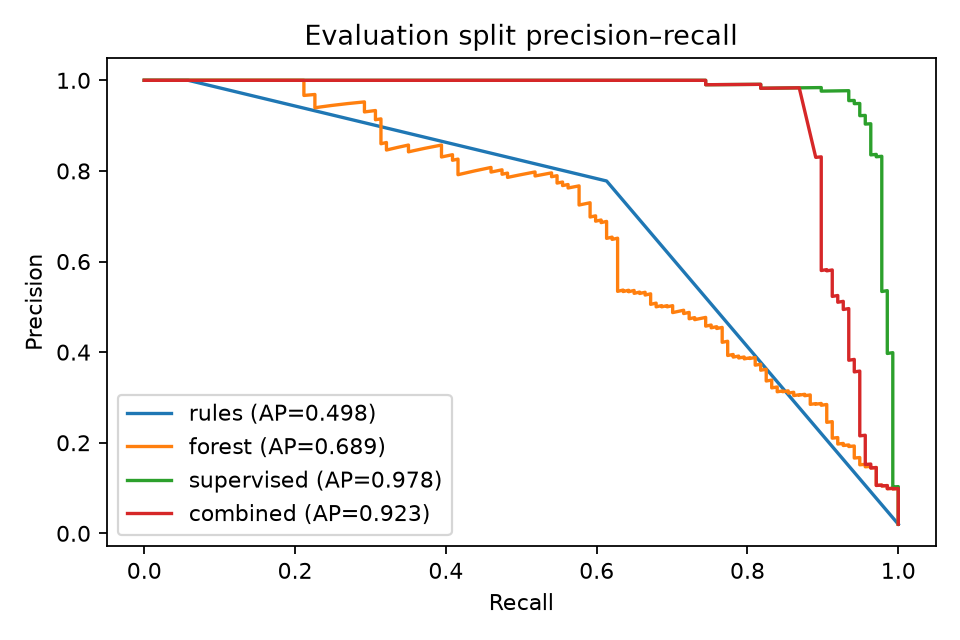
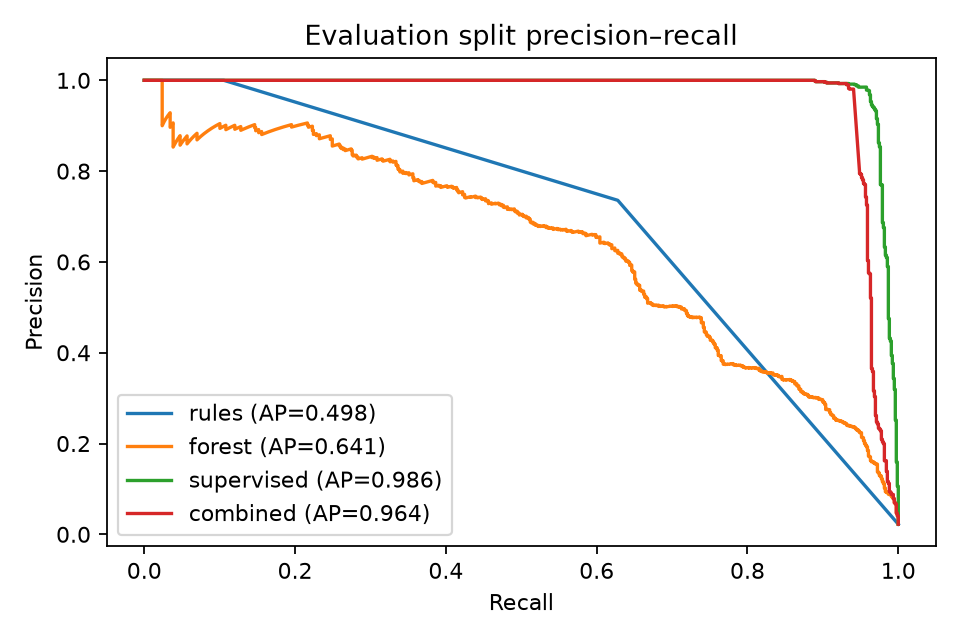
feat(data): realistic one-off merchant names and a larger default dataset

diff --git a/data/synth.py b/data/synth.py
@@ -53,6 +53,40 @@ MERCHANTS = (
     ("Phone Plan", "subscription"),
     ("Bank Transfer", "transfer"),
 )
+ONE_OFF_PREFIXES = (
+    "Birch",
+    "Cedar",
+    "Willow",
+    "Maple",
+    "Elm",
+    "Juniper",
+    "Pine",
+    "Hawthorn",
+    "Meadow",
+    "Brook",
+    "Summit",
+    "Valley",
+    "Harbor",
+    "Ridge",
+    "Stone",
+    "Sunrise",
+)
+ONE_OFF_SUFFIXES = (
+    "Books",
+    "Florist",
+    "Kitchen",
+    "Outfitters",
+    "Hardware",
+    "Gifts",
+    "Studio",
+    "Antiques",
+    "Supply",
+    "Market",
+    "Gallery",
+    "Cyclery",
+    "Pets",
+    "Home Goods",
+)
 MEMOS = (
     "groceries",
     "weekend plans",
@@ -133,6 +167,16 @@ def _money(value: float) -> str:
     return str(amount.quantize(Decimal("0.01"), rounding=ROUND_HALF_UP))
 
 
+def _one_off_merchant(rng: np.random.Generator, used: set[str]) -> tuple[str, str]:
+    while True:
+        prefix = ONE_OFF_PREFIXES[int(rng.integers(len(ONE_OFF_PREFIXES)))]
+        suffix = ONE_OFF_SUFFIXES[int(rng.integers(len(ONE_OFF_SUFFIXES)))]
+        name = f"{prefix} {suffix}"
+        if name not in used:
+            used.add(name)
+            return name, "retail"
+
+
 def _timestamp(value: datetime) -> str:
     return value.isoformat().replace("+00:00", "Z")
 
@@ -196,6 +240,7 @@ def _legitimate(rng: np.random.Generator, accounts: list[Account], days: int) ->
     records = []
     for account in accounts:
         merchant_lookup = [item for item in MERCHANTS if item[0] in account.usual_merchants]
+        used_merchants = set(account.usual_merchants)
         for day in range(days):
             count = int(rng.poisson(account.transactions_per_day))
             if day == 0:
@@ -215,7 +260,7 @@ def _legitimate(rng: np.random.Generator, accounts: list[Account], days: int) ->
                     ("Bank Transfer", "transfer")
                     if is_transfer
                     else (
-                        (f"Local Shop {account.account_id}-{day}-{_}", "retail")
+                        _one_off_merchant(rng, used_merchants)
                         if is_one_off
                         else merchant_lookup[int(rng.integers(len(merchant_lookup)))]
                     )

diff --git a/tests/test_synth.py b/tests/test_synth.py
@@ -7,7 +7,14 @@ from pathlib import Path
 import numpy as np
 import pytest
 
-from data.synth import PATTERN_SIZES, SPLITS, generate_dataset
+from data.synth import (
+    MERCHANTS,
+    ONE_OFF_PREFIXES,
+    ONE_OFF_SUFFIXES,
+    PATTERN_SIZES,
+    SPLITS,
+    generate_dataset,
+)
 
 
 def _read(path: Path) -> list[dict[str, object]]:
@@ -38,6 +45,24 @@ def test_different_seeds_differ(tmp_path: Path) -> None:
     assert (first / "transactions.jsonl").read_bytes() != (
         second / "transactions.jsonl"
     ).read_bytes()
+
+
+def test_one_off_merchants_have_distinct_names_per_account(splits: dict[str, Path]) -> None:
+    known = {name for name, _ in MERCHANTS}
+    rows = _read(splits["train"] / "transactions.jsonl")
+    names: dict[str, set[str]] = defaultdict(set)
+    found = 0
+    for row in rows:
+        name = str(row["merchant_name"])
+        if row["merchant_category"] != "retail" or name in known:
+            continue
+        assert name.startswith(tuple(f"{prefix} " for prefix in ONE_OFF_PREFIXES))
+        assert name.endswith(ONE_OFF_SUFFIXES)
+        account = str(row["account_id"])
+        assert name not in names[account]
+        names[account].add(name)
+        found += 1
+    assert found > 0
 
 
 def test_splits_have_disjoint_accounts(splits: dict[str, Path]) -> None:
@@ -187,5 +212,8 @@ def test_hard_negative_behavior_and_merchant_variety(splits: dict[str, Path]) ->
     times = [datetime.fromisoformat(str(row["timestamp"])) for row in busy]
     assert (max(times) - min(times)).total_seconds() <= 2 * 3600
     assert len({row["merchant_name"] for row in transactions}) >= 30
-    assert any(str(row["merchant_name"]).startswith("Local Shop") for row in transactions)
+    assert any(
+        str(row["merchant_name"]).startswith(tuple(f"{prefix} " for prefix in ONE_OFF_PREFIXES))
+        for row in transactions
+    )
     assert len({row["memo"] for row in transactions if row["memo"]}) >= 5

diff --git a/evals/results/flags.md b/evals/results/flags.md
@@ -1,41 +1,41 @@
 | Detector | Precision | Recall | F1 | PR-AUC | FP | FN |
 |---|---:|---:|---:|---:|---:|---:|
-| rules | 0.778 | 0.613 | 0.686 | 0.498 | 24 | 53 |
-| forest | 0.727 | 0.584 | 0.648 | 0.689 | 30 | 57 |
-| supervised | 0.977 | 0.934 | 0.955 | 0.978 | 3 | 9 |
-| combined | 0.731 | 0.934 | 0.821 | 0.923 | 47 | 9 |
+| rules | 0.736 | 0.628 | 0.678 | 0.498 | 171 | 282 |
+| forest | 0.641 | 0.612 | 0.626 | 0.641 | 260 | 294 |
+| supervised | 0.962 | 0.963 | 0.962 | 0.986 | 29 | 28 |
+| combined | 0.694 | 0.966 | 0.808 | 0.964 | 323 | 26 |
 
 ## Recall by fraud pattern
 
 | Pattern | Detector | Transaction recall | Episode recall | Median transactions until first flag |
 |---|---|---:|---:|---:|
-| velocity_burst | rules | 0.617 | 1.000 | 4.0 |
-| velocity_burst | forest | 0.638 | 1.000 | 4.0 |
-| velocity_burst | supervised | 0.851 | 1.000 | 2.0 |
-| velocity_burst | combined | 0.851 | 1.000 | 2.0 |
-| account_takeover | rules | 0.542 | 0.833 | 1.0 |
-| account_takeover | forest | 0.375 | 0.833 | 2.0 |
-| account_takeover | supervised | 1.000 | 1.000 | 1.0 |
+| velocity_burst | rules | 0.627 | 1.000 | 4.0 |
+| velocity_burst | forest | 0.624 | 1.000 | 4.0 |
+| velocity_burst | supervised | 0.920 | 1.000 | 2.0 |
+| velocity_burst | combined | 0.920 | 1.000 | 2.0 |
+| account_takeover | rules | 0.470 | 0.909 | 1.0 |
+| account_takeover | forest | 0.333 | 0.818 | 2.0 |
+| account_takeover | supervised | 0.992 | 1.000 | 1.0 |
 | account_takeover | combined | 1.000 | 1.000 | 1.0 |
-| amount_spike | rules | 0.611 | 1.000 | 1.0 |
-| amount_spike | forest | 0.333 | 0.667 | 2.5 |
-| amount_spike | supervised | 0.944 | 1.000 | 1.0 |
-| amount_spike | combined | 0.944 | 1.000 | 1.0 |
-| structuring | rules | 0.958 | 1.000 | 1.0 |
+| amount_spike | rules | 0.596 | 0.939 | 1.0 |
+| amount_spike | forest | 0.374 | 0.727 | 2.0 |
+| amount_spike | supervised | 0.949 | 1.000 | 1.0 |
+| amount_spike | combined | 0.960 | 1.000 | 1.0 |
+| structuring | rules | 0.977 | 1.000 | 1.0 |
 | structuring | forest | 1.000 | 1.000 | 1.0 |
 | structuring | supervised | 1.000 | 1.000 | 1.0 |
 | structuring | combined | 1.000 | 1.000 | 1.0 |
-| dormant_drain | rules | 0.333 | 0.833 | 1.0 |
-| dormant_drain | forest | 0.458 | 1.000 | 1.0 |
-| dormant_drain | supervised | 0.958 | 1.000 | 1.0 |
-| dormant_drain | combined | 0.958 | 1.000 | 1.0 |
+| dormant_drain | rules | 0.462 | 0.939 | 1.0 |
+| dormant_drain | forest | 0.659 | 1.000 | 1.0 |
+| dormant_drain | supervised | 0.992 | 1.000 | 1.0 |
+| dormant_drain | combined | 0.992 | 1.000 | 1.0 |
 
 ## False-positive rate by legitimate scenario
 
 | Scenario | Rules | Forest | Supervised | Combined |
 |---|---:|---:|---:|---:|
 | travel | 0.000 | 0.000 | 0.000 | 0.000 |
-| new_device | 0.000 | 0.000 | 0.040 | 0.040 |
+| new_device | 0.000 | 0.000 | 0.053 | 0.053 |
 | large_purchase | 1.000 | 0.000 | 0.000 | 1.000 |
 | busy_day | 0.000 | 0.000 | 0.000 | 0.000 |
-| none | 0.003 | 0.005 | 0.000 | 0.007 |
+| none | 0.005 | 0.008 | 0.001 | 0.010 |
